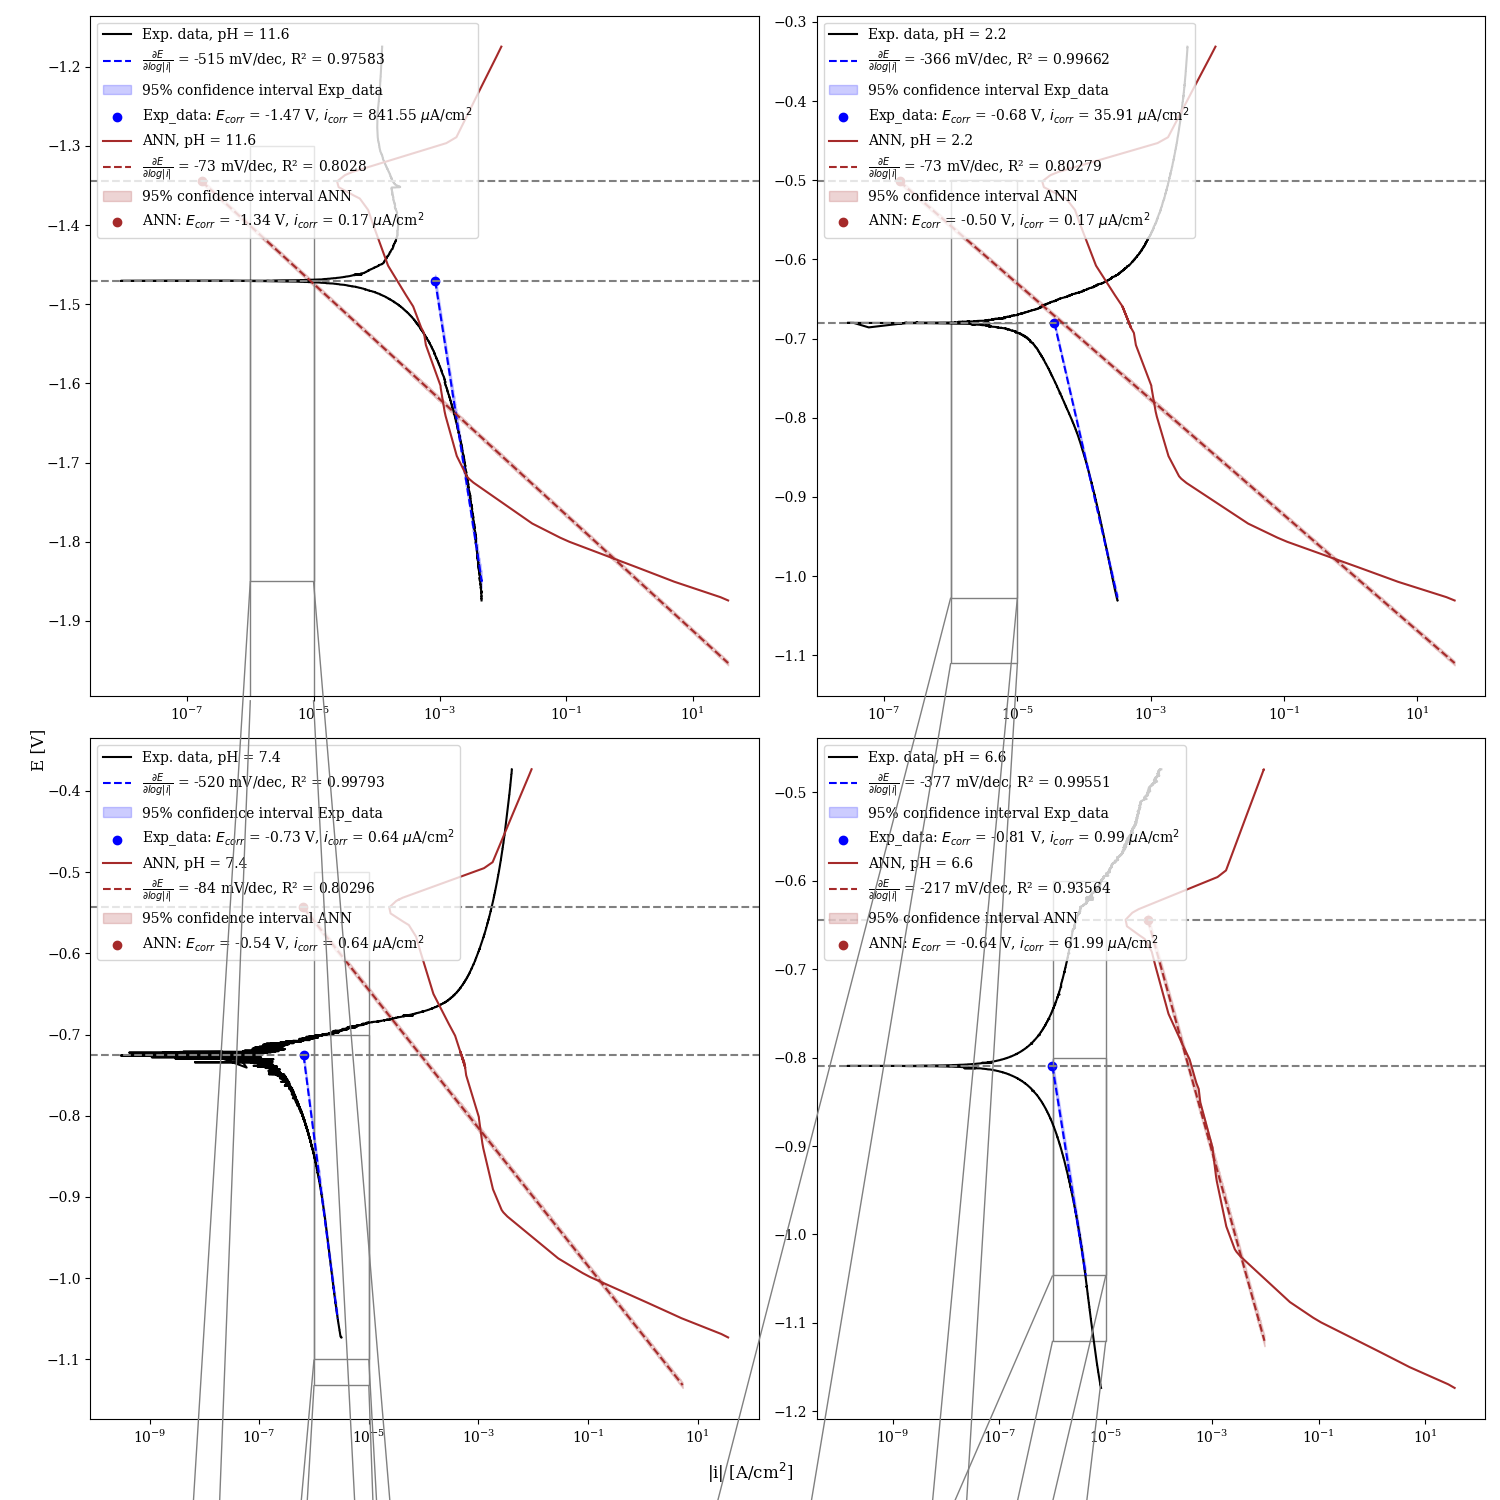
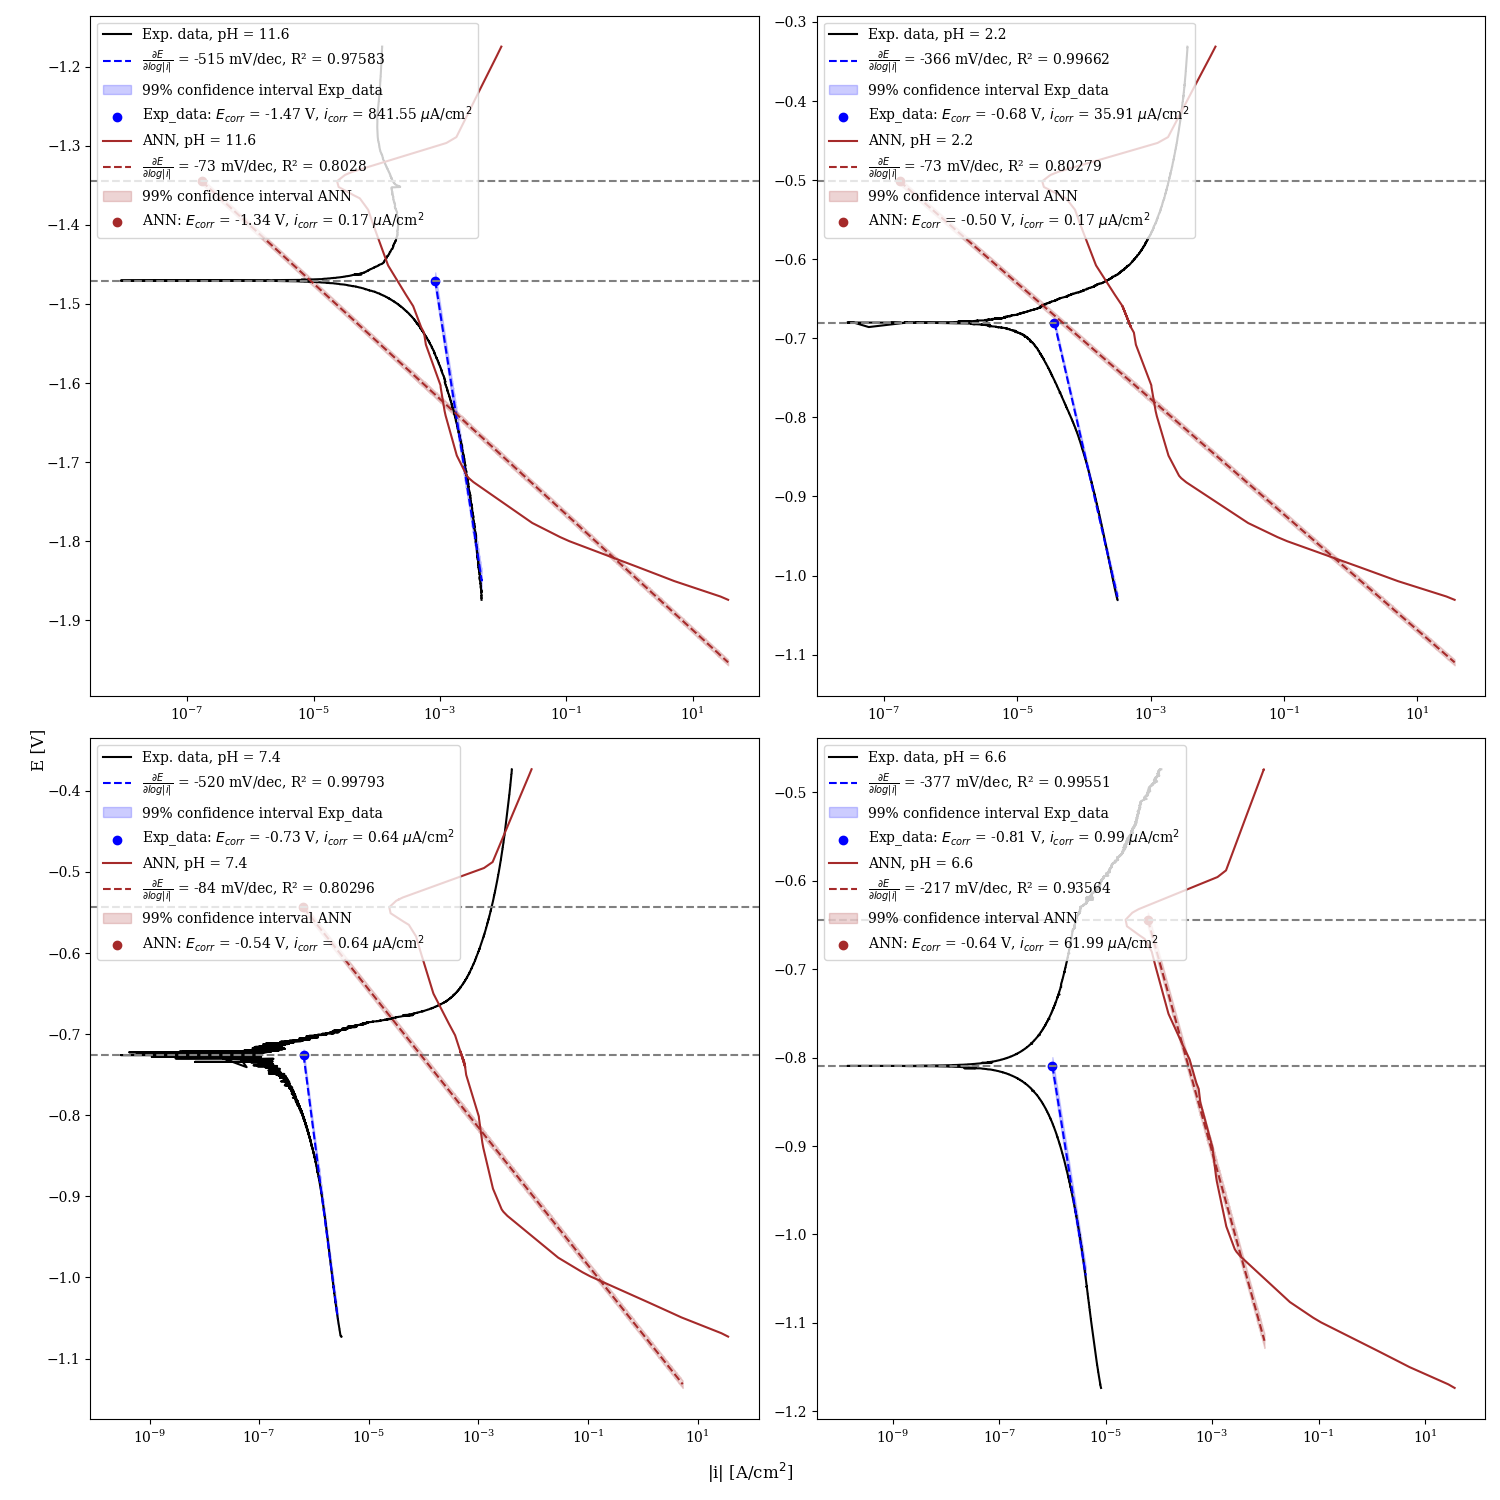
stuff

diff --git a/src/compare_models_with_exp_data.py b/src/compare_models_with_exp_data.py
@@ -22,7 +22,7 @@ from src.data_preprocessing import (
     split_data_into_training_and_testing,
     convert_current_to_log,
 )
-from src.get_selected_features import plot_confidence_interval
+from src.get_selected_features import plot_confidence_interval, lower_upper_confidence_interval_slope
 from typing import Any
 from src.get_selected_features import linreg_tafel_line_ORR_or_HER, get_ocps_machine_learning_models
 from tensorflow import keras
@@ -137,9 +137,6 @@ def corrosion_potential_and_current_density(slope, i0, intercept) -> list[float]
     return [E_corr, i_corr]
 
 
-from mpl_toolkits.axes_grid1.inset_locator import zoomed_inset_axes, mark_inset
-
-
 def plot_tafel_lines_E_corr_i_corr(
     ax,
     i_applied_log_abs,
@@ -164,27 +161,9 @@ def plot_tafel_lines_E_corr_i_corr(
         color=color,
         linestyle="--",
     )
-    # add a zoomed plot of the linreg
-    zoom_xlim = [1e-6, 1e-5]
-    zoom_ylim = [y.min(), y.max()]
 
-    # Create the zoomed-in plot
-    ax_zoom = zoomed_inset_axes(
-        ax,
-        zoom=10,
-        bbox_to_anchor=(0.5, 0.7),
-        loc="upper left",
-        axes_kwargs={"facecolor": "lightgray"},
-    )
-    # Set the limits and ticks for the zoomed-in plot
-    ax_zoom.set_xlim(zoom_xlim)
-    ax_zoom.set_ylim(zoom_ylim)
-    ax_zoom.set_xticks([1e-6, 1e-5])
-    ax_zoom.set_yticks([round(y.min(), 1), round(y.max(), 1)])
-
-    ax_zoom.semilogx(x, y, color=color)
+    # ax_zoom.semilogx(x, y, color=color)
     plot_confidence_interval(
-        confidence_level=0.95,
         i_applied_log_abs=i_applied_log_abs,
         slope=slope,
         slope_std_error=slope_std_error,
@@ -194,20 +173,6 @@ def plot_tafel_lines_E_corr_i_corr(
         color=color,
         model=model,
     )
-    # Set the limits and ticks for the zoomed-in plot
-    ax_zoom.set_xlim(zoom_xlim)
-    ax_zoom.set_ylim(zoom_ylim)
-    ax_zoom.set_xticks([1e-6, 1e-5])
-    ax_zoom.set_yticks([round(y.min(), 1), round(y.max(), 1)])
-
-    # Draw a box around the zoomed-in plot in the main plot
-    mark_inset(ax, ax_zoom, loc1=3, loc2=4, fc="none", ec="0.5")
-
-    # Hide the ticks and labels for the zoomed-in plot in the main plot
-    plt.setp(ax_zoom.get_xticklabels(), visible=False)
-    plt.setp(ax_zoom.get_yticklabels(), visible=False)
-    plt.setp(ax_zoom.get_xticklines(), visible=False)
-    plt.setp(ax_zoom.get_yticklines(), visible=False)
 
     # plot horizontal line at ocp to calculate i_corr
     ax.axhline(ocp, color="grey", linestyle="--")
@@ -237,6 +202,7 @@ def store_polarization_curve_features(E: np.ndarray, i: np.ndarray, model: str) 
     E_applied = np.insert(E_applied, 0, ocp)
     E_corr, i_corr = corrosion_potential_and_current_density(slope, i_applied_log_abs[0], intercept)
 
+    _, _, lower_slope, upper_slope = lower_upper_confidence_interval_slope(i_applied_log_abs, slope, std_error_slope, intercept, intercept_stderr)  # type: ignore
     return [
         E_applied,
         i_applied_log_abs,
@@ -248,6 +214,8 @@ def store_polarization_curve_features(E: np.ndarray, i: np.ndarray, model: str) 
         intercept_stderr,
         E_corr,
         i_corr,
+        lower_slope,
+        upper_slope,
     ]
 
 
@@ -262,9 +230,32 @@ def plot_experimental_testing_data(ph, loc1, loc2, df_features: pd.DataFrame) ->
     E, i = X_test_ph[:, 0], 10**y_test_ph
     # store polarization curve features
     (
-        [E_applied, i_applied_log_abs, ocp, slope, intercept, rvalue, std_error_slope, intercept_stderr, E_corr, i_corr]
+        [
+            E_applied,
+            i_applied_log_abs,
+            ocp,
+            slope,
+            intercept,
+            rvalue,
+            std_error_slope,
+            intercept_stderr,
+            E_corr,
+            i_corr,
+            lower_ci,
+            upper_ci,
+        ]
     ) = store_polarization_curve_features(E, i, "exp")
-    df_features["Exp. data"] = [ocp, slope, rvalue**2, std_error_slope, intercept_stderr, E_corr, i_corr]
+    df_features["Exp. data"] = [
+        ocp,
+        slope,
+        rvalue**2,
+        std_error_slope,
+        lower_ci,
+        upper_ci,
+        intercept_stderr,
+        E_corr,
+        i_corr,
+    ]
 
     figures_to_plot_exp_data_in = [
         ax_pred,
@@ -316,9 +307,22 @@ def random_forest_comparison(ph, loc1, loc2, df_features: pd.DataFrame) -> None:
     E = X_test_ph[:, 0]
     i = current_density_pred.to_numpy()
     (
-        [E_applied, i_applied_log_abs, ocp, slope, intercept, rvalue, std_error_slope, intercept_stderr, E_corr, i_corr]
+        [
+            E_applied,
+            i_applied_log_abs,
+            ocp,
+            slope,
+            intercept,
+            rvalue,
+            std_error_slope,
+            intercept_stderr,
+            E_corr,
+            i_corr,
+            lower_ci,
+            upper_ci,
+        ]
     ) = store_polarization_curve_features(E, i, "RF")
-    df_features["RF"] = [ocp, slope, rvalue**2, std_error_slope, intercept_stderr, E_corr, i_corr]
+    df_features["RF"] = [ocp, slope, rvalue**2, std_error_slope, lower_ci, upper_ci, intercept_stderr, E_corr, i_corr]
 
     linestyle, color = linestyles_and_markers_for_model_comparisons("rf")
     figures_to_plot_pred_in = [ax_pred, ax_individual_model_vs_exp_rf[loc1, loc2]]
@@ -359,9 +363,22 @@ def catboost_comparison(ph, store_mape: list, loc1, loc2, df_features: pd.DataFr
     # store features
     E, i = X_test_ph[:, 0], 10**y_pred_ph
     (
-        [E_applied, i_applied_log_abs, ocp, slope, intercept, rvalue, std_error_slope, intercept_stderr, E_corr, i_corr]
+        [
+            E_applied,
+            i_applied_log_abs,
+            ocp,
+            slope,
+            intercept,
+            rvalue,
+            std_error_slope,
+            intercept_stderr,
+            E_corr,
+            i_corr,
+            lower_ci,
+            upper_ci,
+        ]
     ) = store_polarization_curve_features(E, i, "CB")
-    df_features["CB"] = [ocp, slope, rvalue**2, std_error_slope, intercept_stderr, E_corr, i_corr]
+    df_features["CB"] = [ocp, slope, rvalue**2, std_error_slope, lower_ci, upper_ci, intercept_stderr, E_corr, i_corr]
 
     figures_to_plot_pred_in = [ax_pred, ax_individual_model_vs_exp_cb[loc1, loc2]]
     for ax in figures_to_plot_pred_in:
@@ -414,9 +431,32 @@ def xgboost_comparison(ph, store_mape, loc1, loc2, df_features: pd.DataFrame) ->
     # store features
     E, i = X_test_ph[:, 0], 10**y_pred
     (
-        [E_applied, i_applied_log_abs, ocp, slope, intercept, rvalue, std_error_slope, intercept_stderr, E_corr, i_corr]
+        [
+            E_applied,
+            i_applied_log_abs,
+            ocp,
+            slope,
+            intercept,
+            rvalue,
+            std_error_slope,
+            intercept_stderr,
+            E_corr,
+            i_corr,
+            lower_ci,
+            upper_ci,
+        ]
     ) = store_polarization_curve_features(E, i, "XGB")
-    df_features["XGB"] = [ocp, slope, rvalue**2, std_error_slope, intercept_stderr, E_corr, i_corr]
+    df_features["XGB"] = [
+        ocp,
+        slope,
+        rvalue**2,
+        std_error_slope,
+        lower_ci,
+        upper_ci,
+        intercept_stderr,
+        E_corr,
+        i_corr,
+    ]
 
     linestyle, color = linestyles_and_markers_for_model_comparisons("xgb")
     figures_to_plot_pred_in = [ax_pred, ax_individual_model_vs_exp_xgb[loc1, loc2]]
@@ -467,9 +507,32 @@ def lgbm_comparison(ph, store_mape, loc1, loc2, df_features: pd.DataFrame) -> No
     # store features
     E, i = X_test_ph[:, 0], 10**y_pred
     (
-        [E_applied, i_applied_log_abs, ocp, slope, intercept, rvalue, std_error_slope, intercept_stderr, E_corr, i_corr]
+        [
+            E_applied,
+            i_applied_log_abs,
+            ocp,
+            slope,
+            intercept,
+            rvalue,
+            std_error_slope,
+            intercept_stderr,
+            E_corr,
+            i_corr,
+            lower_ci,
+            upper_ci,
+        ]
     ) = store_polarization_curve_features(E, i, "LGBM")
-    df_features["LGB"] = [ocp, slope, rvalue**2, std_error_slope, intercept_stderr, E_corr, i_corr]
+    df_features["LGB"] = [
+        ocp,
+        slope,
+        rvalue**2,
+        std_error_slope,
+        lower_ci,
+        upper_ci,
+        intercept_stderr,
+        E_corr,
+        i_corr,
+    ]
 
     linestyle, color = linestyles_and_markers_for_model_comparisons("lgb")
 
@@ -543,6 +606,8 @@ def ANN_comparison(ph, store_mape, loc1, loc2, df_features: pd.DataFrame) -> Non
                             intercept_stderr,
                             E_corr,
                             i_corr,
+                            lower_ci,
+                            upper_ci,
                         ]
                     ) = store_polarization_curve_features(E, i, "ANN")
                 except ValueError:
@@ -558,10 +623,22 @@ def ANN_comparison(ph, store_mape, loc1, loc2, df_features: pd.DataFrame) -> Non
                             intercept_stderr,
                             E_corr,
                             i_corr,
+                            lower_ci,
+                            upper_ci,
                         ]
                     ) = store_polarization_curve_features(E, 10**y_test_ph, "ANN")
 
-                df_features["ANN"] = [ocp, slope, rvalue**2, std_error_slope, intercept_stderr, E_corr, i_corr]
+                df_features["ANN"] = [
+                    ocp,
+                    slope,
+                    rvalue**2,
+                    std_error_slope,
+                    lower_ci,
+                    upper_ci,
+                    intercept_stderr,
+                    E_corr,
+                    i_corr,
+                ]
 
                 linestyle, color = linestyles_and_markers_for_model_comparisons("ann")
 
@@ -683,8 +760,10 @@ if __name__ == "__main__":
                 "OCP [V]",
                 "Tafel slope $[$mv/dec$]$",
                 "R\\textsuperscript{2} value slope",
-                "Std. error slope (1e3)",
-                "Std. error intercept (1e3)",
+                "Std. error slope (10$^3$)",
+                "Lower limit 99\\% confidence interval",
+                "Upper limit 99\\% confidence interval",
+                "Std. error intercept (10$^3$)",
                 "E\\textsubscript{corr} [V]",
                 "i\\textsubscript{corr} \\text{[$\mu$A cm\\textsuperscript{-2}]}",
             ],
@@ -699,8 +778,7 @@ if __name__ == "__main__":
 
         # create dataframe to store important parameters from the curves. Save as tex file too
         df_features.iloc[-1, 1:] *= 10**6  # convert to micro A/cm^2 for i_corr
-        df_features.iloc[1, 1:] *= 1000  # convert to mV/dec for tafel slope
-        df_features.iloc[3:5, 1:] *= 1000  # multiply with 1000 for convenience
+        df_features.iloc[[1, 3, 4, 5, 6], 1:] *= 1000
         df_features["Mean error ML"] = df_features.iloc[:, 1:].mean(axis=1)
         df_features["Mean error ML - Exp. data"] = df_features["Mean error ML"] - df_features["Exp. data"]
         df_features["MAPE"] = abs(df_features["Mean error ML - Exp. data"] / df_features["Exp. data"]) * 100

diff --git a/src/get_selected_features.py b/src/get_selected_features.py
@@ -2,6 +2,7 @@ import numpy as np
 from scipy import stats
 from scipy.stats import norm
 from scipy import stats
+from typing import Optional
 
 
 def get_ocps(E: np.ndarray, E_filtered: np.ndarray, i_filtered: np.ndarray) -> list[float]:
@@ -58,8 +59,28 @@ def linreg_tafel_line_ORR_or_HER(
     return [E_applied, i_applied_log_abs, slope, intercept, rvalue, std_error_slope, intercept_stderr]
 
 
+def lower_upper_confidence_interval_slope(
+    i_applied_log_abs,
+    slope,
+    slope_std_error: float,
+    intercept,
+    intercept_std_error: float,
+    confidence_level: Optional[float] = 0.99,
+) -> list[float]:
+    pred = slope * i_applied_log_abs + intercept
+    z = norm.ppf((1 + confidence_level) / 2)  # ~1.96
+    # Calculate the confidence interval for the slope and intercept
+    slope_ci = z * slope_std_error
+    lower_slope = slope - z * slope_std_error
+    upper_slope = slope + z * slope_std_error
+
+    intercept_ci = z * intercept_std_error
+    lower_ci, upper_ci = pred - slope_ci - intercept_ci, pred + slope_ci + intercept_ci
+
+    return [lower_ci, upper_ci, lower_slope, upper_slope]
+
+
 def plot_confidence_interval(
-    confidence_level: float,
     i_applied_log_abs,
     slope,
     slope_std_error: float,
@@ -68,6 +89,7 @@ def plot_confidence_interval(
     ax,
     color: str,
     model: str,
+    confidence_level: Optional[float] = 0.99,
 ):
     """
     Returns the plot for a 95% confidence interval
@@ -75,16 +97,17 @@ def plot_confidence_interval(
     Args:
         confidence level should be given as frac of 1
     """
-    pred = slope * i_applied_log_abs + intercept
-    z = norm.ppf((1 + confidence_level) / 2)  # ~1.96
-    # Calculate the confidence interval for the slope and intercept
-    slope_ci = z * slope_std_error
-    intercept_ci = z * intercept_std_error
-
-    lower_ci, upper_ci = pred - slope_ci - intercept_ci, pred + slope_ci + intercept_ci
+    lower_ci, upper_ci, _, _ = lower_upper_confidence_interval_slope(
+        i_applied_log_abs, slope, slope_std_error, intercept, intercept_std_error
+    )
 
     ax.fill_between(
-        10**i_applied_log_abs, upper_ci, lower_ci, alpha=0.2, color=color, label=f"95% confidence interval {model}"
+        10**i_applied_log_abs,
+        upper_ci,
+        lower_ci,
+        alpha=0.2,
+        color=color,
+        label=f"{int(confidence_level*100)}% confidence interval {model}",
     )
 
 
